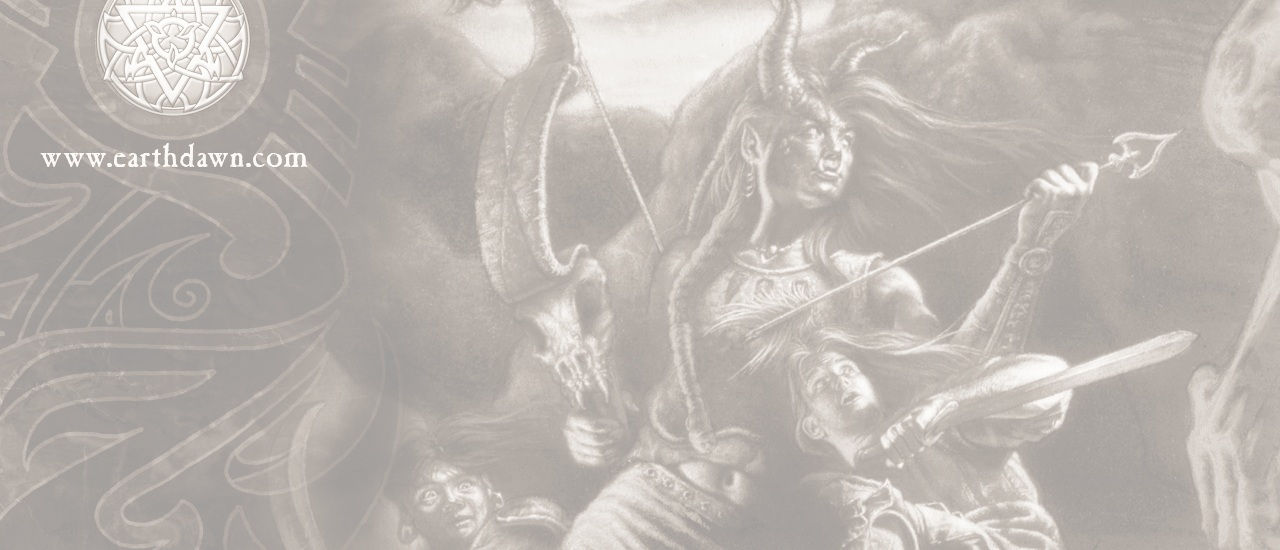
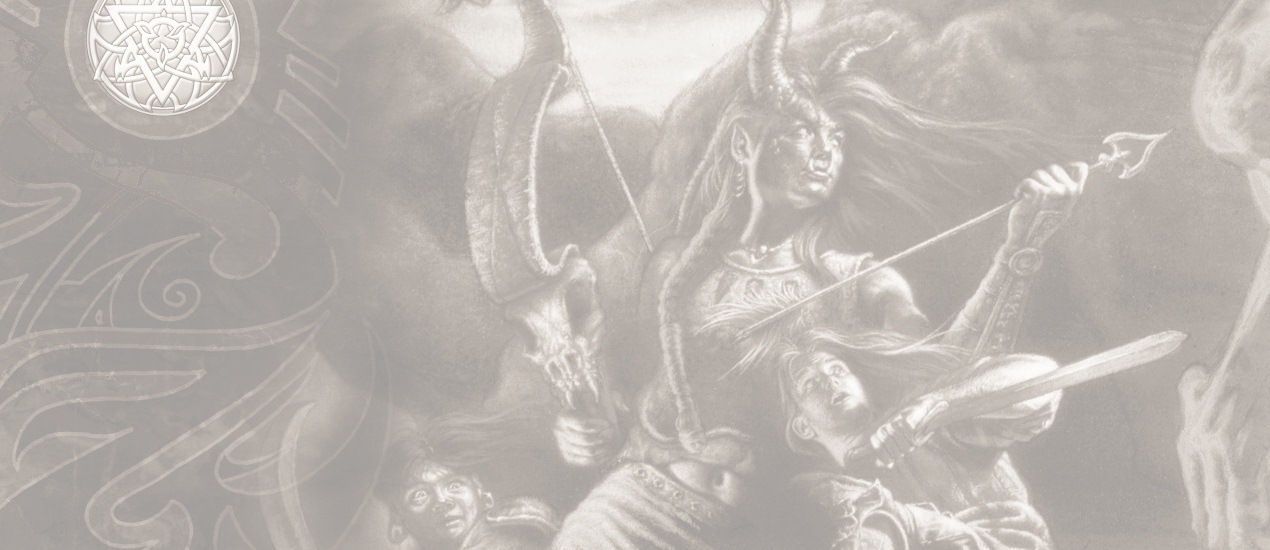
Anpassung Hintergrundbilder durch Olli und die Tabs Skills+Talents haben jetzt auch Hintergrundbilder

diff --git a/src/de/earthdawn/ui2/EDSkills.java b/src/de/earthdawn/ui2/EDSkills.java
@@ -1,5 +1,6 @@
 package de.earthdawn.ui2;
 
+import javax.imageio.ImageIO;
 import javax.swing.JPanel;
 
 import de.earthdawn.CharacterContainer;
@@ -10,17 +11,24 @@ import de.earthdawn.data.RANKType;
 import de.earthdawn.data.SKILLType;
 import de.earthdawn.data.YesnoType;
 
+import javax.swing.JComponent;
 import javax.swing.JScrollPane;
 import javax.swing.JToolBar;
 import java.awt.BorderLayout;
+import java.awt.Component;
+import java.awt.Graphics;
 import java.awt.Rectangle;
 
 import javax.swing.JTable;
 import javax.swing.table.AbstractTableModel;
+import javax.swing.table.TableCellRenderer;
 import javax.swing.table.TableColumn;
 import javax.swing.JButton;
 import java.awt.event.ActionListener;
 import java.awt.event.ActionEvent;
+import java.awt.image.BufferedImage;
+import java.io.File;
+import java.io.IOException;
 import java.util.ArrayList;
 import java.util.HashMap;
 import javax.swing.ListSelectionModel;
@@ -36,13 +44,30 @@ public class EDSkills extends JPanel {
 	private JButton btnAddSkill;
 	private JButton btnRemoveSkill;
 	private JButton btnToggleDefaultSkill;
+	private BufferedImage backgroundimage = null;
+
+	@Override
+	protected void paintComponent(Graphics g) {
+		if( backgroundimage == null ) {
+			File file = new File("templates/skills_background.jpg");
+			try {
+				backgroundimage = ImageIO.read(file);
+			} catch (IOException e) {
+				System.err.println("can not read background image : "+file.getAbsolutePath());
+			}
+		}
+		if( backgroundimage != null ) g.drawImage(backgroundimage, 0, 0, getWidth(), getHeight(), this);
+		super.paintComponent(g);
+	}
 	/**
 	 * Create the panel.
 	 */
 	public EDSkills() {
+		setOpaque(false);
 		setLayout(new BorderLayout(0, 0));
 
 		toolBar = new JToolBar();
+		toolBar.setOpaque(false);
 		add(toolBar, BorderLayout.NORTH);
 
 		btnAddSkill = new JButton("Add Skill");
@@ -70,9 +95,19 @@ public class EDSkills extends JPanel {
 		toolBar.add(btnToggleDefaultSkill);
 
 		scrollPane = new JScrollPane();
+		scrollPane.setOpaque(false);
 		add(scrollPane, BorderLayout.CENTER);
 
-		table = new JTable();
+		table = new JTable(){
+			public Component prepareRenderer(TableCellRenderer renderer, int row, int column) 
+			{
+				Component component = super.prepareRenderer(renderer, row, column);
+				if( component instanceof JComponent )
+					((JComponent)component).setOpaque(false);
+				return component;
+			}
+		};
+		table.setOpaque(false);
 		InputMapUtil.setupInputMap(table);	
 
 		table.setSelectionMode(ListSelectionModel.SINGLE_SELECTION);
@@ -80,6 +115,7 @@ public class EDSkills extends JPanel {
 		table.getColumnModel().getColumn(3).setCellEditor(new SpinnerEditor(0, 10));
 		table.getColumnModel().getColumn(4).setCellEditor(new SpinnerEditor(0, 10));
 		scrollPane.setViewportView(table);
+		scrollPane.getViewport().setOpaque(false);
 		table.setRowSelectionAllowed(false);
 		table.setColumnSelectionAllowed(false);
 		table.getTableHeader().setReorderingAllowed(false);

diff --git a/src/de/earthdawn/ui2/EDTalents.java b/src/de/earthdawn/ui2/EDTalents.java
@@ -1,15 +1,22 @@
 package de.earthdawn.ui2;
 
 import java.awt.BorderLayout;
+import java.awt.Component;
 import java.awt.Container;
+import java.awt.Graphics;
 import java.awt.Point;
 import java.awt.Rectangle;
 import java.awt.event.ActionEvent;
 import java.awt.event.ActionListener;
+import java.awt.image.BufferedImage;
+import java.io.File;
+import java.io.IOException;
 import java.util.HashMap;
 import java.util.List;
 
+import javax.imageio.ImageIO;
 import javax.swing.JButton;
+import javax.swing.JComponent;
 import javax.swing.JMenuItem;
 import javax.swing.JPanel;
 import javax.swing.JPopupMenu;
@@ -17,6 +24,7 @@ import javax.swing.JScrollPane;
 import javax.swing.JTable;
 import javax.swing.JToolBar;
 import javax.swing.table.AbstractTableModel;
+import javax.swing.table.TableCellRenderer;
 import javax.swing.table.TableColumn;
 
 import de.earthdawn.CharacterContainer;
@@ -45,6 +53,7 @@ public class EDTalents extends JPanel {
 	private JTable table;
 	private String disciplin;
 	private JPopupMenu popupMenuCircle;
+	private BufferedImage backgroundimage = null;
 
 	public void setCharacter(final CharacterContainer character) {
 		this.character = character;
@@ -70,17 +79,43 @@ public class EDTalents extends JPanel {
 		return character;
 	}
 
+	@Override
+	protected void paintComponent(Graphics g) {
+		if( backgroundimage == null ) {
+			File file = new File("templates/talents_background.jpg");
+			try {
+				backgroundimage = ImageIO.read(file);
+			} catch (IOException e) {
+				System.err.println("can not read background image : "+file.getAbsolutePath());
+			}
+		}
+		if( backgroundimage != null ) g.drawImage(backgroundimage, 0, 0, getWidth(), getHeight(), this);
+		super.paintComponent(g);
+	}
+
 	/**
 	 * Create the panel.
 	 */
 	public EDTalents(String disciplin) {
 		this.disciplin  = disciplin;
+		setOpaque(false);
 		setLayout(new BorderLayout(0, 0));
 
 		scrollPane = new JScrollPane();
+		scrollPane.setOpaque(false);
 		add(scrollPane, BorderLayout.CENTER);
 
-		table = new JTable();
+		// Create transperant table
+		table = new JTable(){
+			public Component prepareRenderer(TableCellRenderer renderer, int row, int column) 
+			{
+				Component component = super.prepareRenderer( renderer, row, column);
+				if( component instanceof JComponent )
+					((JComponent)component).setOpaque(false);
+				return component;
+			}
+		};
+		table.setOpaque(false);
 		table.setRowSelectionAllowed(false);
 		table.setSurrendersFocusOnKeystroke(true);
 		table.setModel(new TalentsTableModel(character, disciplin));
@@ -91,6 +126,7 @@ public class EDTalents extends JPanel {
 		table.getTableHeader().setReorderingAllowed(false);
 
 		scrollPane.setViewportView(table);
+		scrollPane.getViewport().setOpaque(false);
 
 		JToolBar toolBar = new JToolBar();
 		toolBar.setFloatable(false);

diff --git a/src/de/earthdawn/ui2/EDExperience.java b/src/de/earthdawn/ui2/EDExperience.java
@@ -52,7 +52,7 @@ public class EDExperience extends JPanel {
 		JComboBox comboBoxPlusMinus = new JComboBox();
 		comboBoxPlusMinus.addItem("+");
 		comboBoxPlusMinus.addItem("-");
-		table.getColumnModel().getColumn(2).setCellEditor(new javax.swing.DefaultCellEditor(comboBoxPlusMinus));		
+		table.getColumnModel().getColumn(2).setCellEditor(new javax.swing.DefaultCellEditor(comboBoxPlusMinus));
 	}
 
 	@Override
@@ -78,7 +78,6 @@ public class EDExperience extends JPanel {
 		add(toolBar, BorderLayout.NORTH);
 		
 		btnAddEXPEntry = new JButton("Add Experience");
-		btnAddEXPEntry.setOpaque(false);
 		btnAddEXPEntry.addActionListener(new ActionListener() {
 			public void actionPerformed(ActionEvent arg0) {
 				do_btnAddEXPEntry_actionPerformed(arg0);
@@ -87,7 +86,6 @@ public class EDExperience extends JPanel {
 		toolBar.add(btnAddEXPEntry);
 		
 		btnRemoveEXPEntry = new JButton("Remove Experience");
-		btnRemoveEXPEntry.setOpaque(false);
 		btnRemoveEXPEntry.addActionListener(new ActionListener() {
 			public void actionPerformed(ActionEvent arg0) {
 				do_btnRemoveEXPEntry_actionPerformed(arg0);
